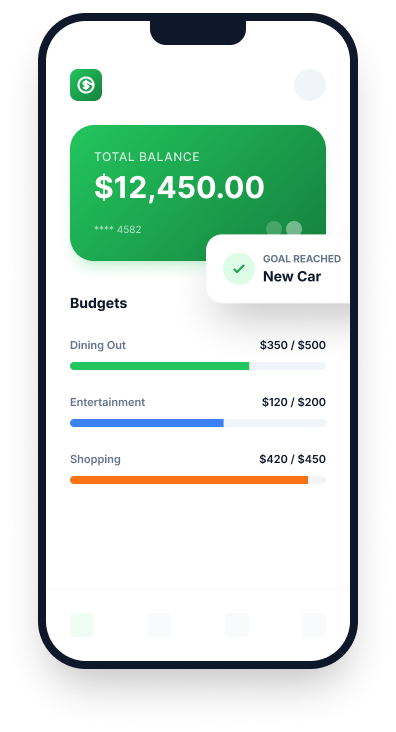
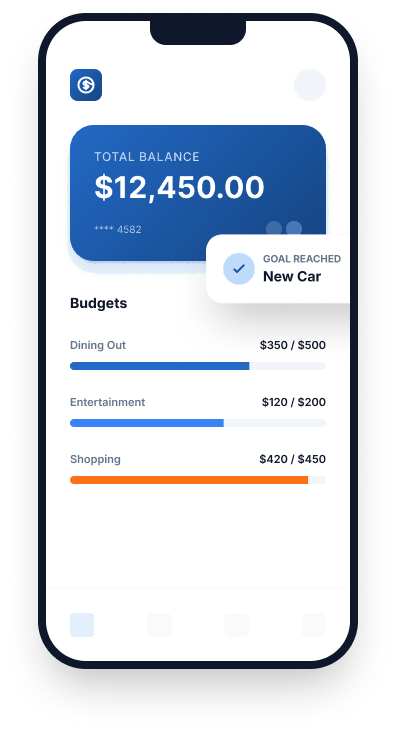
Fixed Phone Section and remodeled blue color to match the design

Changed region(s): [[0.1515, 0.0902, 0.8485, 0.3907], [0.1818, 0.4809, 0.6364, 0.5109]]

diff --git a/react-frontend/src/components/hero-page-components/HeroPhoneSection.jsx b/react-frontend/src/components/hero-page-components/HeroPhoneSection.jsx
@@ -2,7 +2,7 @@ import phone1 from '../../assets/images/phone1.png'
 
 function HeroPhoneSection() {
   return (
-    <section className="relative z-10 rounded-[2rem] bg-linear-to-b from-white to-blue-50/70 p-3 shadow-2xl shadow-blue-950/15 ring-1 ring-blue-100">
+    <section className="relative z-10">
       <img className="w-[280px] max-w-[76vw] drop-shadow-2xl md:w-[330px]" src={phone1} alt="FinVue mobile dashboard preview" />
     </section>
   );
